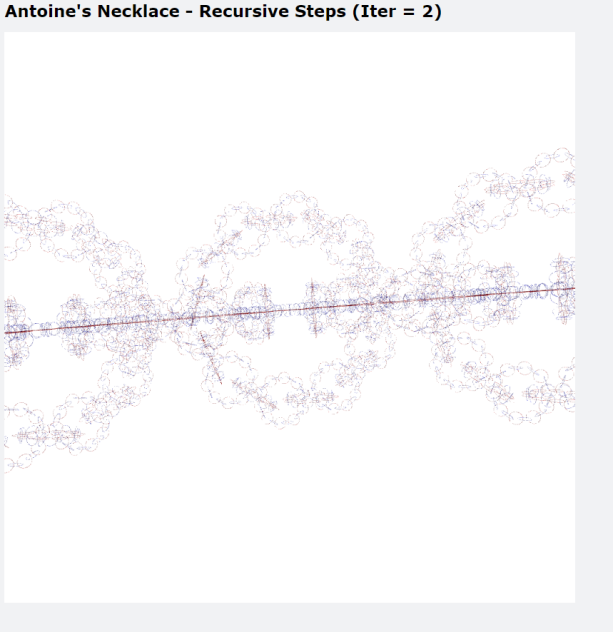
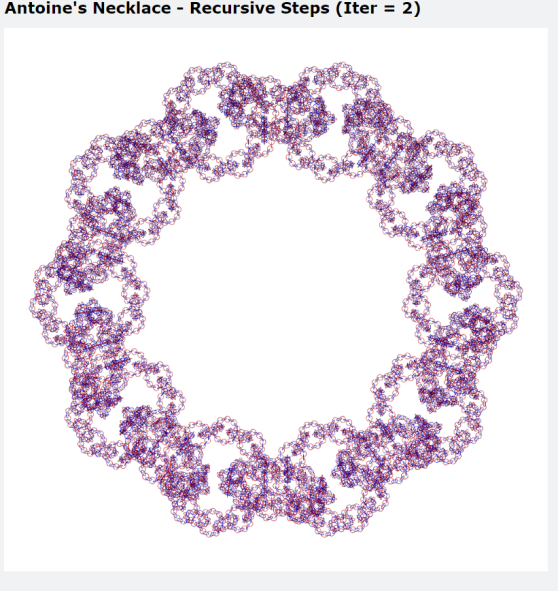
Parameter Adjustment

diff --git a/main.py b/main.py
@@ -11,7 +11,7 @@ radius = 2*c
 thickness = 0.5*c
 # The scales for changing radius and thickness of the torus
 scale_r = 1/4
-scale_t = 1/20
+scale_t = 1/10
 
 def radial_poistion(index, r):
     radian = 2*math.pi*index/K
